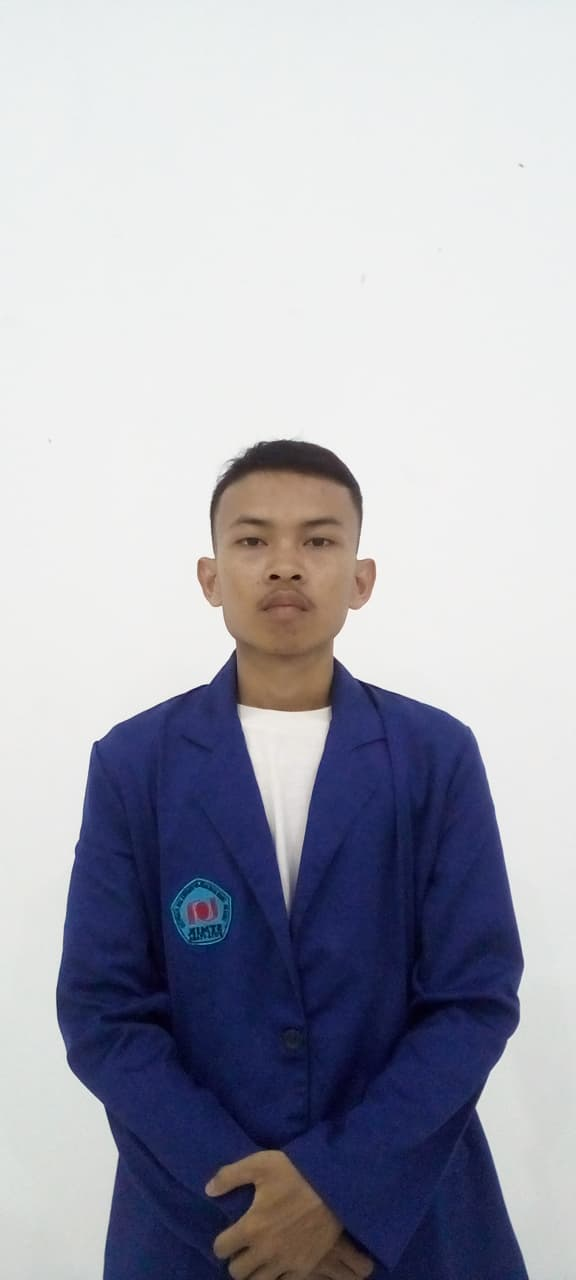
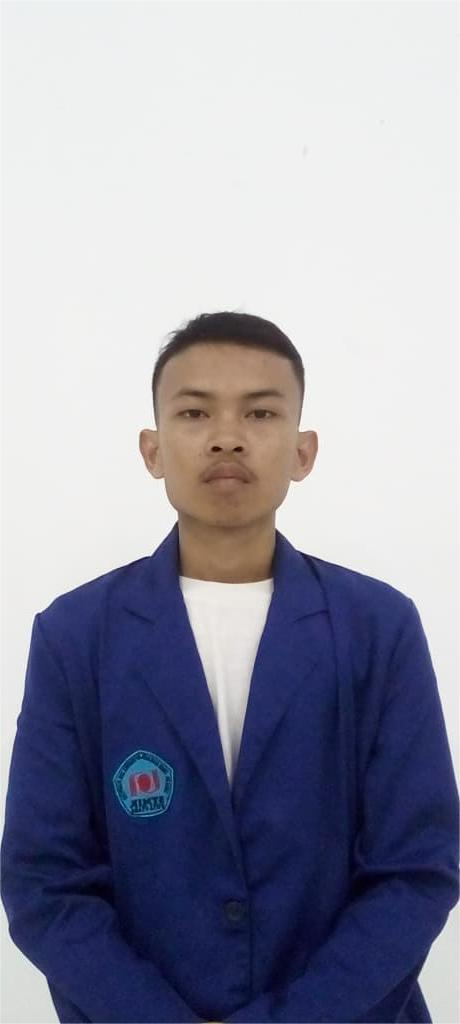
update

diff --git a/index.html b/index.html
@@ -20,16 +20,17 @@
     <div class="hero-container">
 
       <div class="hero-text">
-        <span class="hero-badge">Mahasiswa</span>
+        <span class="hero-badge">PORTFOLIO</span>
         <h1>IRFAN NUR RAMADAN</h1>
 
+        <p class="hero-role">Web Developer & Data Analyst</p>
         <p class="hero-subtitle">
-          Mahasiswa Program Studi Teknik Informatika yang memiliki kompetensi dasar dalam pengembangan aplikasi web. Memahami prinsip perancangan sistem dan berkomitmen untuk bekerja secara profesional sesuai standar perusahaan
+          Mengembangkan website fungsional, responsif, dan berorientasi pada solusi digital
         </p>
 
         <div class="hero-actions">
-          <a href="#" class="btn primary" id="openCV">CV</a>
-          <a href="#projects" class="btn secondary">Proyek</a>
+          <a href="#" class="btn primary" id="openCV">Lihat CV</a>
+          <a href="#projects" class="btn secondary">Lihat Project</a>
         </div>
       </div>
 
@@ -43,26 +44,40 @@
 
   <!-- ===== CV PREVIEW ===== -->
   <div class="cv-preview" id="cvPreview">
-    <div class="cv-overlay">
-      <img src="assets/img/cv.jpeg" alt="CV Irfan" class="cv-image">
-    </div>
+  <div class="cv-overlay">
+
+    <a href="assets/img/cv.jpeg"
+       class="cv-download"
+       download
+       title="Download CV">
+      <svg xmlns="http://www.w3.org/2000/svg" width="18" height="18"
+        fill="none" viewBox="0 0 24 24" stroke="currentColor">
+        <path stroke-linecap="round" stroke-linejoin="round" stroke-width="2"
+          d="M4 16v2a2 2 0 002 2h12a2 2 0 002-2v-2M7 10l5 5 5-5M12 15V3"/>
+      </svg>
+      Download CV
+    </a>
+
+    <img src="assets/img/cv.jpeg" alt="CV Irfan" class="cv-image">
+
   </div>
+</div>
+
 
   <!-- ===== PROFILE SECTION ===== -->
     <section class="profile" id="profile">
     <div class="profile-container">
 
         <div class="profile-image">
-        <img src="assets/img/cv.jpeg" alt="Tentang">
+        <img src="assets/img/userprofile.png" alt="Tentang">
         </div>
 
         <div class="profile-content">
-        <h2 class="section-title">Profil</h2>
+        <h2 class="section-title">PROFIL</h2>
         <p class="profile-text">
-            Saya adalah mahasiswa Teknik Informatika yang memiliki ketertarikan pada pengembangan web dan sistem informasi. Berusaha terbiasa membangun aplikasi web yang terstruktur, responsif, dan berorientasi pada kebutuhan pengguna
-        </p>
+            Saya adalah lulusan Teknik Informatika yang memiliki minat dan kemampuan dalam pengembangan web serta pengolahan dan analisis data. Terbiasa membangun aplikasi web yang terstruktur, responsif, dan mendukung proses pengolahan data untuk menghasilkan informasi yang bernilai
         <p class="profile-text">
-            Saya memiliki kemampuan bekerja secara mandiri maupun dalam tim, belajar memahami alur pengembangan perangkat lunak, serta berkomitmen terhadap kualitas ketepatan waktu, dan dokumentasi yang baik
+            Saya mampu bekerja secara mandiri maupun dalam tim, memahami alur pengembangan perangkat lunak dan analisis data, serta berkomitmen terhadap kualitas, ketepatan waktu, dan dokumentasi yang baik
         </p>
         <div class="profile-info">
             <div class="info-item">
@@ -105,7 +120,7 @@
     <section class="skills" id="skills">
     <div class="skills-container">
 
-        <h2 class="section-title center">Keahlian</h2>
+        <h2 class="section-title center">KEAHLIAN</h2>
         <p class="section-subtitle">
         Kemampuan teknis yang saya kembangkan dalam pengembangan aplikasi dan sistem berbasis web
         </p>
@@ -187,9 +202,9 @@
   <section class="projects" id="projects">
     <div class="projects-container">
 
-      <h2 class="section-title center">Proyek</h2>
+      <h2 class="section-title center">PROJECT</h2>
       <p class="section-subtitle">
-        Beberapa proyek yang pernah saya coba buat sebagai bagian dari pembelajaran dan pengembangan kemampuan teknis
+        Beberapa project yang pernah saya buat sebagai bagian dari pembelajaran dan pengembangan kemampuan teknis
       </p>
 
       <div class="projects-grid" id="projectsGrid">
@@ -220,9 +235,10 @@
   <section class="contact" id="contact">
     <div class="contact-container">
 
-      <h2 class="section-title center">Kontak</h2>
+      <h2 class="section-title center">KONTAK</h2>
       <p class="section-subtitle">
-        Silakan menghubungi saya untuk keperluan berbagi pengalaman atau bisa juga belajar bersama
+        Ingin diskusi atau berbagi pengalaman?
+        Langsung klik media sosial saya di bawah ini
       </p>
 
       <div class="contact-grid">
@@ -233,31 +249,7 @@
           <a 
             href="mailto:o.irfanramadhan.o@gmail.com" 
             class="contact-value">
-            o.irfanramadhan.o@gmail.com
-          </a>
-        </div>
-
-        <!-- Instagram -->
-        <div class="contact-item">
-          <span class="contact-label">Instagram</span>
-          <a 
-            href="https://www.instagram.com/ipanukail/" 
-            class="contact-value"
-            target="_blank"
-            rel="noopener noreferrer">
-            @ipanukail
-          </a>
-        </div>
-
-        <!-- GitHub -->
-        <div class="contact-item">
-          <span class="contact-label">GitHub</span>
-          <a 
-            href="https://github.com/irfanramadhan11" 
-            class="contact-value"
-            target="_blank"
-            rel="noopener noreferrer">
-            github.com/irfanramadhan11
+            irfanramadhan.dev@gmail.com
           </a>
         </div>
 
@@ -273,6 +265,17 @@
           </a>
         </div>
 
+        <!-- GitHub -->
+        <div class="contact-item">
+          <span class="contact-label">GitHub</span>
+          <a 
+            href="https://github.com/irfanramadhan11" 
+            class="contact-value"
+            target="_blank"
+            rel="noopener noreferrer">
+            github.com/irfanramadhan11
+          </a>
+        </div>
       </div>
     </div>
   </section>
@@ -283,14 +286,14 @@
     <div class="footer-container">
 
       <p class="footer-text">
-        © 2026 Irfan Nur Ramadan. All rights reserved.
+        © 2026 Irfan Nur Ramadan. Built with HTML, CSS, JavaScript.
       </p>
 
       <div class="footer-links">
-        <a href="#profile">Profil</a>
-        <a href="#skills">Keahlian</a>
-        <a href="#projects">Proyek</a>
-        <a href="#contact">Kontak</a>
+        <a href="#profile">PROFIL</a>
+        <a href="#skills">KEAHLIAN</a>
+        <a href="#projects">PROJECT</a>
+        <a href="#contact">KONTAK</a>
       </div>
     </div>
   </footer>

diff --git a/css/style.css b/css/style.css
@@ -59,8 +59,18 @@ body {
   font-family: 'Times New Roman', Times, serif;
   font-weight: 700;
   color: #111827;
-  margin-bottom: 1rem;
+  margin-bottom: 0.05rem;
+  line-height: 1.2; 
   align-self: center;
+}
+
+.hero-role {
+  font-size: 1.1rem;
+  font-weight: 500;
+  color: #2563eb; /* biru profesional */
+  margin-top: 0;
+  margin-bottom: 1rem;
+  letter-spacing: 0.3px;
 }
 
 .hero-subtitle {
@@ -138,6 +148,7 @@ body {
   display: flex;
   align-items: center;
   justify-content: center;
+  position: relative;
 }
 
 .cv-image {
@@ -146,6 +157,30 @@ body {
   object-fit: contain;
   background: #fff;
   border-radius: 10px;
+}
+
+.cv-download {
+  position: absolute;
+  top: 20px;
+  right: 20px;
+  display: flex;
+  align-items: center;
+  gap: 8px;
+  background: #1d4ed8;
+  color: #ffffff;
+  padding: 10px 16px;
+  border-radius: 10px;
+  font-size: 0.9rem;
+  font-weight: 600;
+  text-decoration: none;
+  box-shadow: 0 10px 24px rgba(0,0,0,0.2);
+  transition: all 0.25s ease;
+  z-index: 10;
+}
+
+.cv-download:hover {
+  background: #1e40af;
+  transform: translateY(2px);
 }
 
 /* ===== RESPONSIVE ===== */
@@ -169,6 +204,13 @@ body {
   .hero-text h1 {
     font-size: 2.1rem;
   }
+
+  .hero-role {
+  font-size: 1.05rem;
+  font-weight: 500;
+  color: #2563eb;
+  margin-bottom: 1rem;
+  }
 }
 
 @media (max-width: 576px) {
@@ -177,21 +219,38 @@ body {
     white-space: nowrap;
   }
 
+  .hero-role {
+  font-size: 1.05rem;
+  font-weight: 500;
+  color: #2563eb;
+  margin-bottom: 1rem;
+  }
+
   .hero-subtitle {
+    display: block;
+    max-width: 100%;
+    margin-top: 0.75rem;
     text-align: justify;
-    text-align-last: left; /* Baris terakhir rata kiri, bukan justify */
-    hyphens: auto; /* Membantu pemisahan kata jika diperlukan */
+    text-align-last: left;  
+    hyphens: auto; 
   }
 
   .profile-text {
     text-align: justify;
-    text-align-last: left; /* Baris terakhir rata kiri, bukan justify */
-    hyphens: auto; /* Membantu pemisahan kata jika diperlukan */
+    text-align-last: left; 
+    hyphens: auto;
   }
 
   .hero-image img {
     width: 220px;
     height: 280px;
+  }
+
+  .cv-download {
+    top: 12px;
+    right: 12px;
+    padding: 8px 14px;
+    font-size: 0.8rem;
   }
 }
 
@@ -388,22 +447,27 @@ body {
 .skill-card ul {
   list-style: none;
   padding: 0;
+  display: flex;       
+  flex-wrap: wrap;        
+  gap: 10px;              
 }
 
 .skill-card ul li {
-  font-size: 0.95rem;
-  margin-bottom: 0.6rem;
+  font-size: 0.85rem;
+  margin-bottom: 0;       
+  background-color: #eff6ff;
+  border-radius: 999px;
+  padding: 6px 12px;
+  white-space: nowrap;
 }
 
 .skill-card ul li a {
-  color: #374151;
+  color: #1d4ed8;       
   text-decoration: none;
   font-weight: 500;
-  transition: all 0.2s ease;
 }
 
 .skill-card ul li a:hover {
-  color: #1d4ed8;
   text-decoration: underline;
 }
 
@@ -411,6 +475,13 @@ body {
 @media (max-width: 992px) {
   .skills-grid {
     grid-template-columns: 1fr;
+  }
+}
+
+@media (max-width: 576px) {
+  .skill-card ul li {
+    font-size: 0.8rem;
+    padding: 5px 10px;
   }
 }
 
@@ -584,8 +655,9 @@ body {
 .contact-grid {
   margin-top: 3rem;
   display: grid;
-  grid-template-columns: repeat(2, 1fr);
+  grid-template-columns: 1fr;
   gap: 2rem;
+  justify-items: center; 
 }
 
 .contact-item {
@@ -593,6 +665,9 @@ body {
   padding: 28px 24px;
   border-radius: 16px;
   box-shadow: 0 12px 26px rgba(0, 0, 0, 0.05);
+  width: 100%;
+  max-width: 520px; 
+  text-align: center; 
 }
 
 .contact-label {
